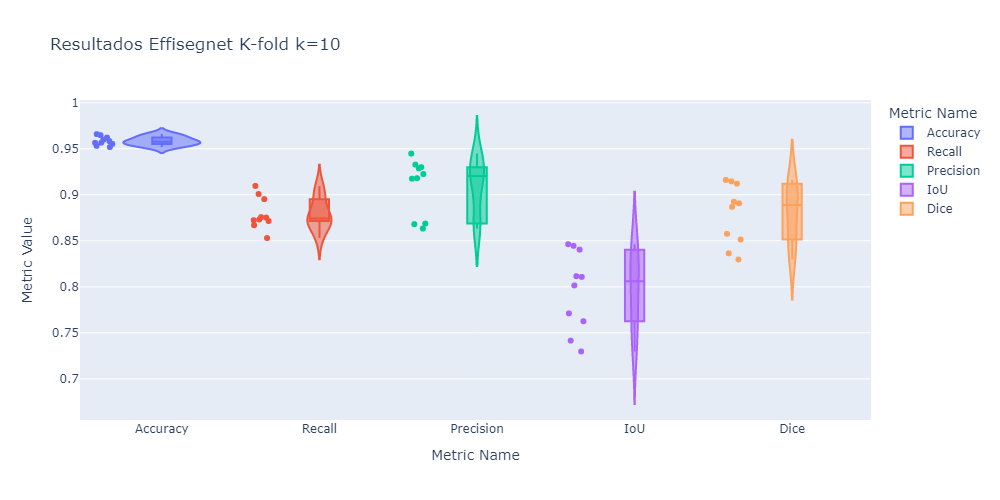
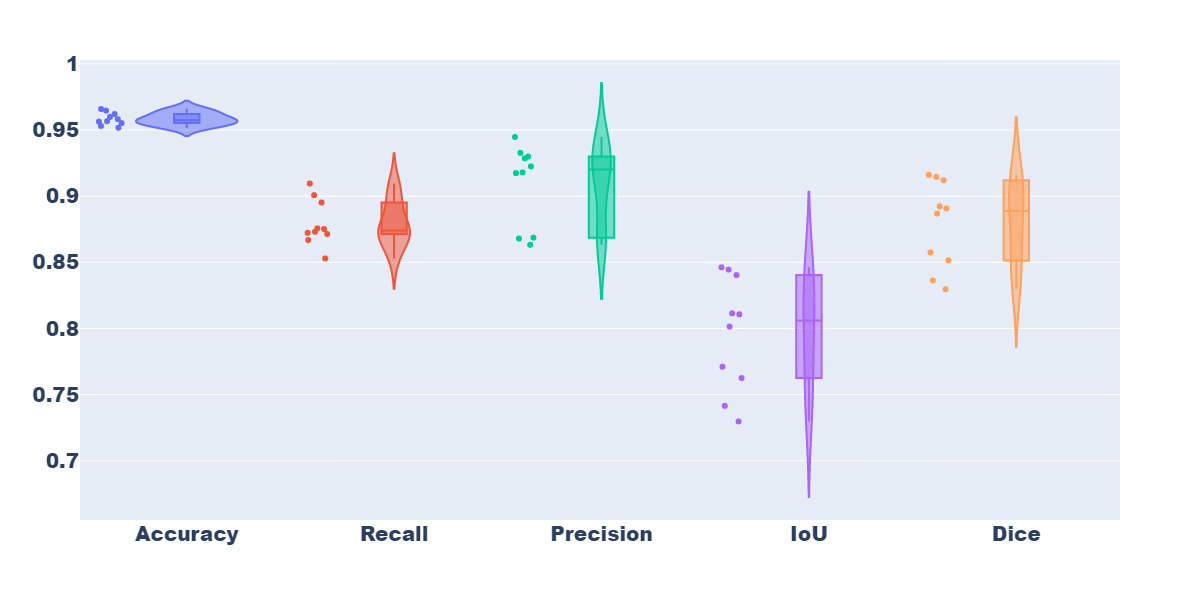
big font for violin plot

diff --git a/plots.py b/plots.py
@@ -16,6 +16,8 @@ results = results.rename(columns={'test_loss': "Loss", 'test_accuracy': "Accurac
                                   'test_recall': "Recall", 'test_precision': "Precision",
                                   'test_f1':"F1-score"})
 
+df = pd.melt(results, id_vars=["N fold"], var_name="Metric Name", value_name="Metric Value")
+
 #%% Violin Plot Example
 
 # df = px.data.tips()
@@ -25,8 +27,6 @@ results = results.rename(columns={'test_loss': "Loss", 'test_accuracy': "Accurac
 # fig.write_image("fig1.svg")
 
 #%% Violin Plot #1: All
-
-df = pd.melt(results, id_vars=["N fold"], var_name="Metric Name", value_name="Metric Value")
 
 fig = px.violin(df, y="Metric Value", x="Metric Name", color="Metric Name", box=True, points="all",
           hover_data=df.columns, title="Resultados Effisegnet K-fold k=10")
@@ -40,8 +40,19 @@ fig.write_image("results/fig1.png", width=1000, height=500)
 df = df[df["Metric Name"]!="Loss"]
 df = df[df["Metric Name"]!="F1-score"]
 fig = px.violin(df, y="Metric Value", x="Metric Name", color="Metric Name",
-                box=True, points="all", hover_data=df.columns,  title="Resultados Effisegnet K-fold k=10")
+                box=True, points="all", hover_data=df.columns, #title="Resultados Effisegnet K-fold k=10"
+)
+
+fig.update_layout(
+    showlegend=False,
+    yaxis_title=None,
+    xaxis_title=None,
+    font=dict(
+        family="Arial Black",
+        size=20
+    )
+)
 
 fig.show()
-fig.write_image("results/fig2.svg", width=1000, height=500)
-fig.write_image("results/fig2.png", width=1000, height=500)
+# fig.write_image("results/fig2.svg", width=1000, height=500)
+fig.write_image("results/fig2.png", width=1200, height=600)
